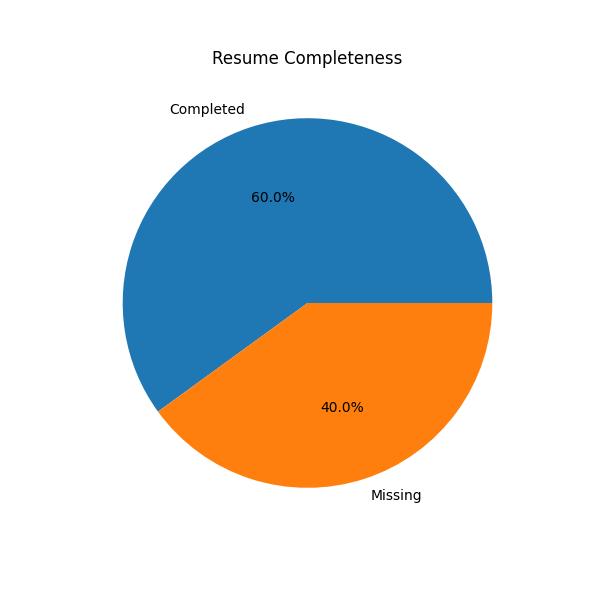
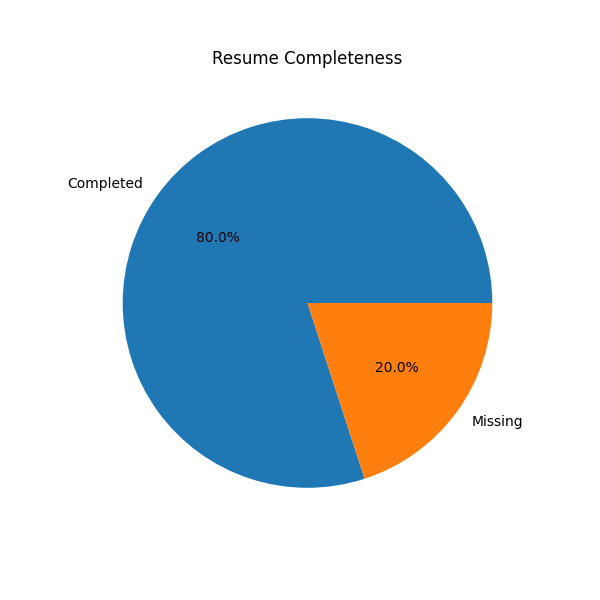
added readme of the project

diff --git a/templates/jobs.html b/templates/jobs.html
@@ -38,7 +38,7 @@
                             <div
                                 class="progress-bar bg-success"
                                 role="progressbar"
-                                style="width: {{ percentage }}%;">
+                                 >
 
                                 {{ percentage }}%
 

diff --git a/README.md b/README.md
@@ -1,0 +1,171 @@
+# AI Resume Analyzer
+
+A professional AI-powered Resume Analyzer built using Flask, Python, SQL, Pandas, NumPy, and Matplotlib.
+
+This application analyzes resumes, extracts important details, calculates ATS scores, provides improvement suggestions, recommends jobs, and visualizes resume analytics.
+
+---
+
+# Features
+
+- Resume PDF Upload
+- Resume Text Extraction
+- ATS Resume Scoring
+- Skills Detection
+- Education Detection
+- Experience Detection
+- Resume Improvement Suggestions
+- Missing Skills Analysis
+- Job Recommendation System
+- Analytics Dashboard
+- Data Visualization using Matplotlib
+- Responsive Bootstrap UI
+- Multi-page Flask Architecture
+
+---
+
+# Technologies Used
+
+## Backend
+- Python
+- Flask
+- SQLAlchemy
+
+## Data Analysis
+- Pandas
+- NumPy
+
+## Visualization
+- Matplotlib
+
+## Frontend
+- HTML
+- CSS
+- Bootstrap
+- Jinja Templates
+
+## Database
+- SQLite
+
+---
+
+# Project Screenshots
+
+## Home Page
+
+(Add Screenshot Here)
+
+## Dashboard
+
+(Add Screenshot Here)
+
+## Analytics Page
+
+(Add Screenshot Here)
+
+## Improvements Page
+
+(Add Screenshot Here)
+
+## Job Recommendations
+
+(Add Screenshot Here)
+
+---
+
+# Installation
+
+Clone repository:
+
+```bash
+git clone <your-github-repo-link>
+```
+
+Move into project folder:
+
+```bash
+cd ai_resume_analyzer
+```
+
+Create virtual environment:
+
+```bash
+python -m venv venv
+```
+
+Activate virtual environment:
+
+## Windows
+
+```bash
+venv\Scripts\activate
+```
+
+Install dependencies:
+
+```bash
+pip install -r requirements.txt
+```
+
+Run application:
+
+```bash
+python app.py
+```
+
+---
+
+# Usage
+
+1. Upload Resume PDF
+2. Analyze ATS Score
+3. View Skills Detection
+4. Check Analytics Dashboard
+5. Review Improvement Suggestions
+6. Explore Recommended Job Roles
+
+---
+
+# Project Structure
+
+```text
+ai_resume_analyzer/
+│
+├── static/
+│   ├── style.css
+│   ├── skills_chart.png
+│   ├── score_chart.png
+│
+├── templates/
+│   ├── base.html
+│   ├── home.html
+│   ├── dashboard.html
+│   ├── analytics.html
+│   ├── improvements.html
+│   ├── jobs.html
+│
+├── uploads/
+├── app.py
+├── requirements.txt
+├── README.md
+└── resume_analyzer.db
+```
+
+---
+
+# Future Enhancements
+
+- AI/NLP-based Resume Parsing
+- Resume Section Detection
+- Semantic Skill Matching
+- Resume Ranking System
+- Authentication System
+- Cloud Database Integration
+- Resume Comparison Feature
+- AI Chat Assistant
+
+---
+
+# Author
+
+Developed by Izas